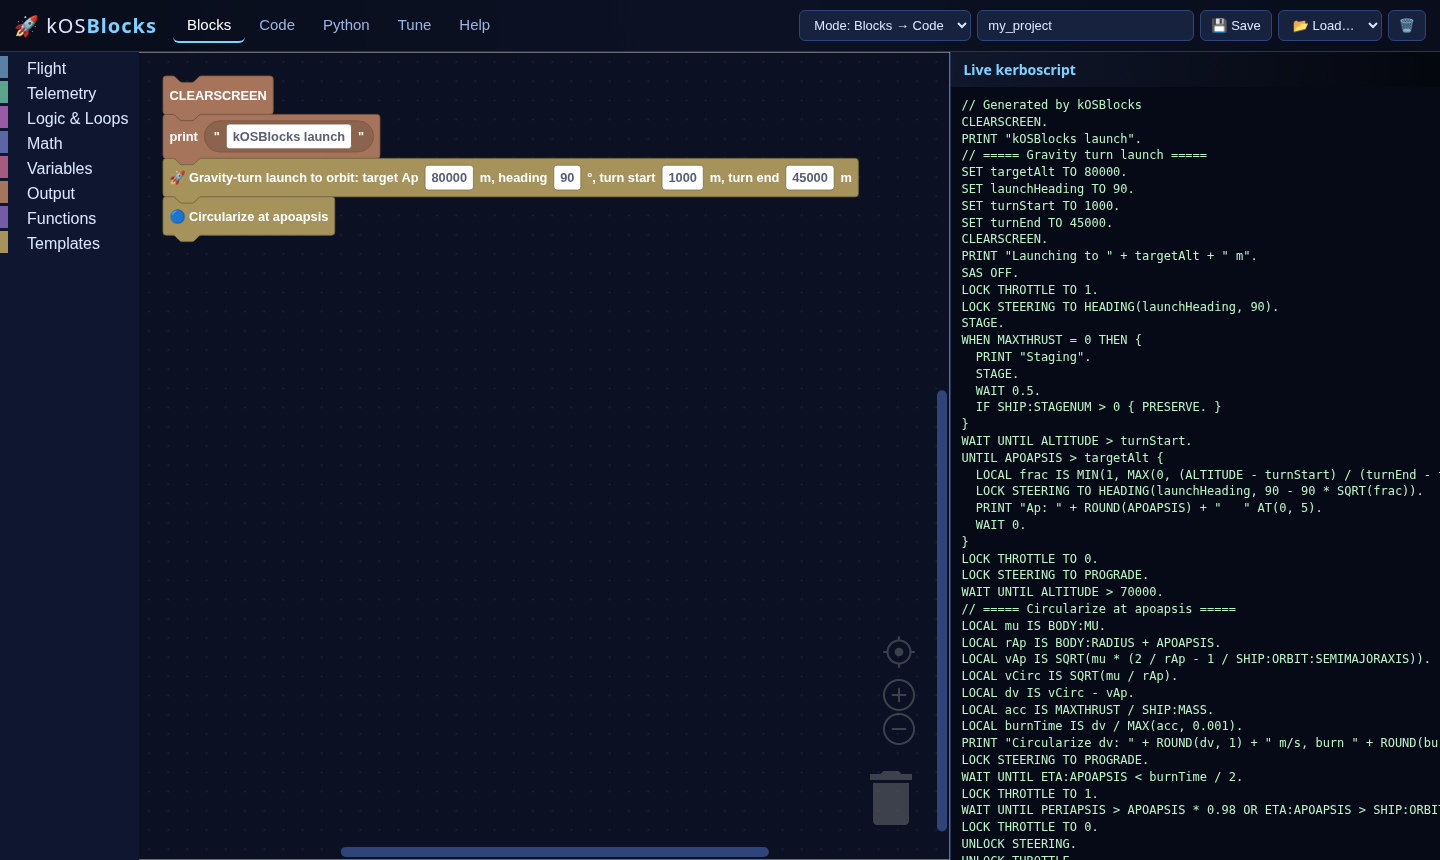
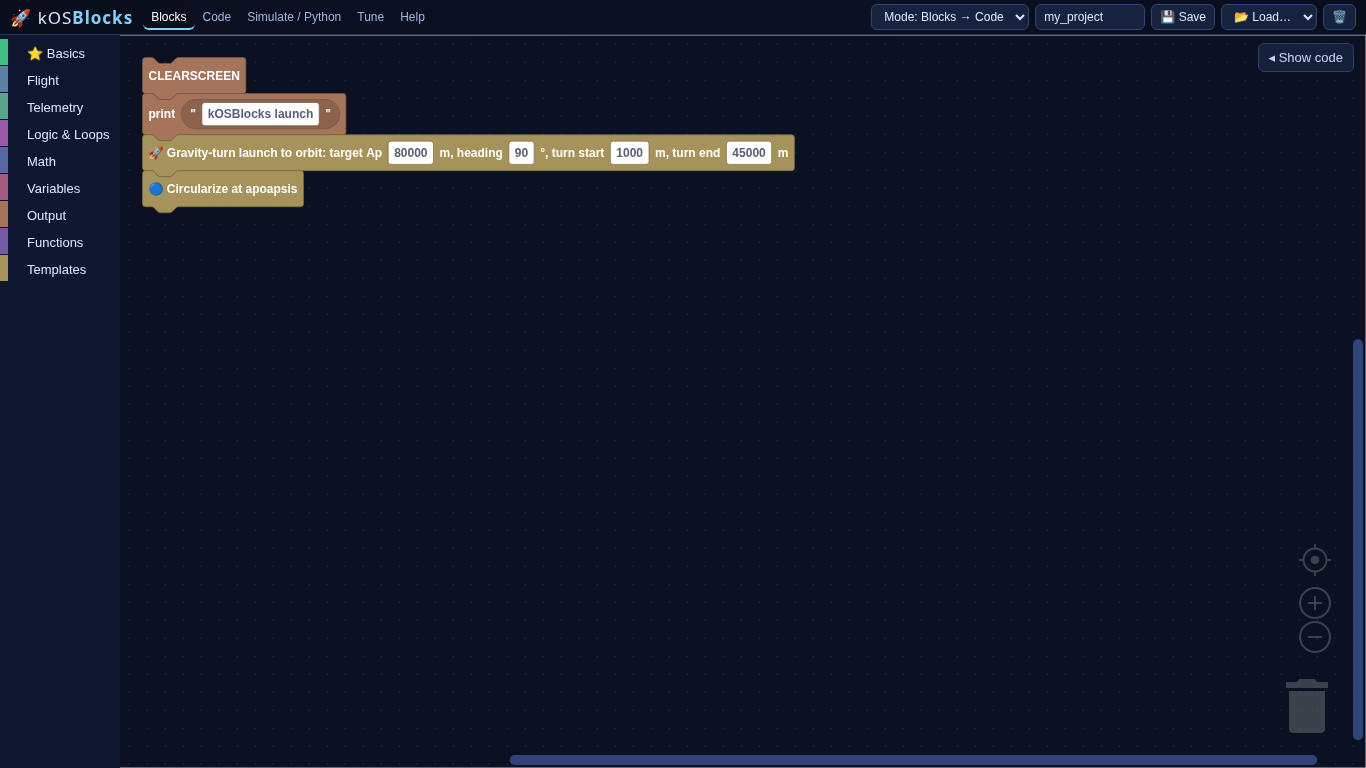
Fix/harden block dragging, declutter Blocks tab, add Basics category (wait, stage, stage+wait, auto-stage)

Changed region(s): [[0.0, 0.0, 1.0, 1.0], [0.8917, 0.8438, 0.9224, 0.875]]

diff --git a/app.js b/app.js
@@ -7,12 +7,25 @@ CodeMirror.defineSimpleMode('kerboscript',{start:[
  {regex:/\b(?:altitude|apoapsis|periapsis|verticalspeed|groundspeed|maxthrust|latitude|longitude|throttle|steering|sas|rcs|gear|brakes|lights|legs|abort|ag\d+)\b/i,token:'atom'},
  {regex:/-?\d+(?:\.\d+)?(?:e[+-]?\d+)?/i,token:'number'},{regex:/[{}()]/,token:'bracket'},{regex:/[-+*\/^<>=:.,]/,token:'operator'}],meta:{lineComment:'//'}});
 
-const ws=Blockly.inject('blocklyDiv',{toolbox:TOOLBOX,theme:Blockly.Theme.defineTheme('kosdark',{base:Blockly.Themes.Classic,componentStyles:{workspaceBackgroundColour:'#0b1122',toolboxBackgroundColour:'#0f1730',toolboxForegroundColour:'#dce6ff',flyoutBackgroundColour:'#16203a',flyoutOpacity:0.95,scrollbarColour:'#2f4478',insertionMarkerColour:'#fff'}}),renderer:'zelos',grid:{spacing:24,length:2,colour:'#1b2747',snap:true},zoom:{controls:true,wheel:true,startScale:0.8},trashcan:true});
+const ws=Blockly.inject('blocklyDiv',{toolbox:TOOLBOX,theme:Blockly.Theme.defineTheme('kosdark',{base:Blockly.Themes.Classic,componentStyles:{workspaceBackgroundColour:'#0b1122',toolboxBackgroundColour:'#0f1730',toolboxForegroundColour:'#dce6ff',flyoutBackgroundColour:'#16203a',flyoutOpacity:0.95,scrollbarColour:'#2f4478',insertionMarkerColour:'#fff'}}),renderer:'zelos',grid:{spacing:24,length:2,colour:'#1b2747',snap:true},zoom:{controls:true,wheel:false,pinch:true,startScale:0.75,maxScale:2,minScale:0.3,scaleSpeed:1.15},move:{scrollbars:true,drag:true,wheel:true},trashcan:true,sounds:false});
 const cm=CodeMirror($('#codeWrap'),{mode:'kerboscript',theme:'material-darker',lineNumbers:true,readOnly:true,indentUnit:2});
 let linked=true, pureCode=false, suppress=false;
 
 function regen(){ if(!linked||pureCode) return; const code=KOS.workspaceToCode(ws); $('#livePreview').textContent=code; suppress=true; cm.setValue(code); suppress=false; lint(); refreshTune(); }
-ws.addChangeListener(e=>{ if(e.isUiEvent) return; regen(); });
+// Regenerate code at most once per frame and never in the middle of a drag (heavy DOM work during a
+// drag can make Blockly drags stutter/fail on slower machines).
+let regenTimer=null;
+function scheduleRegen(){ clearTimeout(regenTimer); regenTimer=setTimeout(()=>{ if(ws.isDragging&&ws.isDragging()){scheduleRegen();return;} regen(); },120); }
+ws.addChangeListener(e=>{ if(e.isUiEvent||e.type===Blockly.Events.VIEWPORT_CHANGE) return; scheduleRegen(); });
+// keep Blockly's cached size in sync with its container (tab switches, header wrap, window resize, panel toggle)
+const resizeBlockly=()=>{ if($('#tab-blocks').classList.contains('active')) Blockly.svgResize(ws); };
+window.addEventListener('resize',resizeBlockly); if(window.ResizeObserver) new ResizeObserver(resizeBlockly).observe($('#blocklyDiv'));
+// live preview: hidden by default, toggle remembers choice
+function setPreview(on){ $('#tab-blocks').classList.toggle('preview-on',on); $('#togglePreview').textContent=on?'Hide code ▸':'◂ Show code'; localStorage.setItem('kosblocks.preview',on?'1':'0'); setTimeout(resizeBlockly,0); }
+$('#togglePreview').onclick=()=>setPreview(!$('#tab-blocks').classList.contains('preview-on'));
+setPreview(localStorage.getItem('kosblocks.preview')==='1');
+$('#relink').onclick=()=>{ if(pureCode) setMode('blocks'); else if(confirm('Re-link: code will be regenerated from blocks (text edits lost). Continue?')) setLinked(true); };
+function updateBanner(){ $('#unlinkedBanner').style.display=(!linked||pureCode)?'':'none'; }
 function getCode(){return cm.getValue();}
 function setCode(t){ // writing text implies unlinking from blocks
   if(linked&&!pureCode){ setLinked(false); }
@@ -20,14 +33,14 @@ function setCode(t){ // writing text implies unlinking from blocks
 cm.on('change',()=>{ if(suppress) return; lint(); refreshTune(); $('#livePreview').textContent=cm.getValue(); });
 
 function setLinked(v){ linked=v; $('#editSelf').checked=!v; cm.setOption('readOnly',v&&!pureCode);
-  $('#linkState').textContent=pureCode?'pure code mode':(v?'linked to blocks':'unlinked – blocks ignored'); $('#linkState').classList.toggle('warn',!v||pureCode); if(v) regen(); }
+  $('#linkState').textContent=pureCode?'pure code mode':(v?'linked to blocks':'unlinked – blocks ignored'); $('#linkState').classList.toggle('warn',!v||pureCode); if(v) regen(); updateBanner(); }
 $('#editSelf').onchange=e=>{ if(!e.target.checked){ if(!confirm('Switching back to blocks will REGENERATE the code from blocks and discard your text edits. Continue?')){e.target.checked=true;return;} } setLinked(!e.target.checked); };
 function setMode(m){ pureCode=m==='code'; $('#mode').value=m; document.querySelector('[data-tab=blocks]').style.display=pureCode?'none':'';
   $('#editSelf').disabled=pureCode; if(pureCode){ linked=false; cm.setOption('readOnly',false); showTab('code'); } else { if(getCode().trim()&&!confirm('Return to Blocks mode? Code will be regenerated from blocks (text edits lost).')){ $('#mode').value='code'; pureCode=true; return;} linked=true; } setLinked(linked); }
 $('#mode').onchange=e=>setMode(e.target.value);
 
 function showTab(t){ document.querySelectorAll('nav button').forEach(b=>b.classList.toggle('active',b.dataset.tab===t)); document.querySelectorAll('.tab').forEach(s=>s.classList.toggle('active',s.id==='tab-'+t));
-  if(t==='blocks') Blockly.svgResize(ws); if(t==='code') cm.refresh(); if(t==='python') pyEd.refresh(); if(t==='tune') refreshTune(); }
+  if(t==='blocks') setTimeout(()=>Blockly.svgResize(ws),0); if(t==='code') cm.refresh(); if(t==='python') pyEd.refresh(); if(t==='tune') refreshTune(); }
 document.querySelectorAll('nav button').forEach(b=>b.onclick=()=>showTab(b.dataset.tab));
 
 // ---- Linter ----
@@ -223,7 +236,7 @@ $('#resetPy').onclick=()=>pyEd.setValue(PY_DEFAULT);
 let pyodide=null;
 async function ensurePy(){ if(pyodide) return pyodide; $('#pyStatus').textContent='Loading Pyodide…';
   await new Promise((res,rej)=>{const s=document.createElement('script');s.src='https://cdn.jsdelivr.net/pyodide/v0.26.4/full/pyodide.js';s.onload=res;s.onerror=()=>rej(new Error('Could not load Pyodide (offline?)'));document.head.appendChild(s);});
-  const py=await loadPyodide(); const src=await (await fetch('sim.py')).text(); py.FS.writeFile('/home/pyodide/kossim.py',src);
+  const py=await loadPyodide(); const src=await (await fetch('sim.py?v=3')).text(); py.FS.writeFile('/home/pyodide/kossim.py',src);
   py.registerJsModule('_kosbridge',{getCode,setCode,setVar:(n,v)=>{const r=setVar(n,v);refreshTune();regenNow();return r;},getVessel:()=>{readOpts();return JSON.stringify(vessel);},showSim});
   py.runPython('import sys\nsys.path.insert(0,"/home/pyodide")\nimport _kosbridge as _js\n'+PY_HELPERS); pyodide=py; $('#pyStatus').textContent='Pyodide ready'; return py; }
 function regenNow(){ if(linked&&!pureCode){ const code=KOS.workspaceToCode(ws); suppress=true; cm.setValue(code); suppress=false; $('#livePreview').textContent=code; lint(); } }

diff --git a/blocks.js b/blocks.js
@@ -16,6 +16,8 @@ def('kos_toggle','%1 %2',[{type:'field_dropdown',name:'W',options:['SAS','RCS','
 def('kos_wait','wait %1 seconds',[V('S','Number')],ST(C.flight));
 def('kos_wait_until','wait until %1',[V('C','Boolean')],ST(C.flight));
 def('kos_mainthrottle_zero','set pilot main throttle to 0',[],ST(C.flight));
+def('kos_stage_wait','STAGE then wait %1 s',[V('S','Number')],ST(C.flight));
+def('kos_autostage','auto-stage when %1',[{type:'field_dropdown',name:'W',options:[['thrust drops to 0','THRUST'],['stage liquid fuel empty','FUEL']]}],ST(C.flight));
 // Telemetry
 const TELE=[['ALTITUDE','ALTITUDE'],['APOAPSIS','APOAPSIS'],['PERIAPSIS','PERIAPSIS'],['surface speed','SHIP:VELOCITY:SURFACE:MAG'],['orbital speed','SHIP:VELOCITY:ORBIT:MAG'],['VERTICALSPEED','VERTICALSPEED'],['GROUNDSPEED','GROUNDSPEED'],['SHIP:MASS','SHIP:MASS'],['MAXTHRUST','MAXTHRUST'],['LATITUDE','LATITUDE'],['LONGITUDE','LONGITUDE'],['ETA:APOAPSIS','ETA:APOAPSIS'],['ETA:PERIAPSIS','ETA:PERIAPSIS'],['STAGE:LIQUIDFUEL','STAGE:LIQUIDFUEL'],['STAGE:OXIDIZER','STAGE:OXIDIZER'],['SOLIDFUEL','STAGE:SOLIDFUEL'],['radar altitude','ALT:RADAR'],['THROTTLE','THROTTLE'],['TIME:SECONDS','TIME:SECONDS'],['BODY:MU','BODY:MU'],['BODY:RADIUS','BODY:RADIUS']];
 def('kos_tele','%1',[{type:'field_dropdown',name:'T',options:TELE}],EX(C.tele,'Number'));
@@ -87,7 +89,9 @@ const STMT={
  kos_steer_heading:b=>`LOCK STEERING TO HEADING(${val(b,'DIR','90')}, ${val(b,'PITCH','90')}).\n`,
  kos_steer_dir:b=>`LOCK STEERING TO ${f(b,'D')==='X'?'UP':f(b,'D')}.\n`,
  kos_lock_throttle:b=>`LOCK THROTTLE TO ${val(b,'T','1')}.\n`, kos_unlock:b=>`UNLOCK ${f(b,'W')}.\n`,
- kos_stage:()=>'STAGE.\n', kos_toggle:b=>`${f(b,'W')} ${f(b,'S')}.\n`,
+ kos_stage:()=>'STAGE.\n',
+ kos_stage_wait:b=>`STAGE.\nWAIT ${val(b,'S','1')}.\n`,
+ kos_autostage:b=>`WHEN ${f(b,'W')==='FUEL'?'STAGE:LIQUIDFUEL < 0.1':'MAXTHRUST = 0'} AND SHIP:STATUS <> "PRELAUNCH" THEN {\n${IND}PRINT "Auto-staging".\n${IND}STAGE.\n${IND}WAIT 0.5.\n${IND}IF SHIP:STAGENUM > 0 { PRESERVE. }\n}\n`, kos_toggle:b=>`${f(b,'W')} ${f(b,'S')}.\n`,
  kos_wait:b=>`WAIT ${val(b,'S','1')}.\n`, kos_wait_until:b=>`WAIT UNTIL ${val(b,'C','TRUE')}.\n`,
  kos_mainthrottle_zero:()=>'SET SHIP:CONTROL:PILOTMAINTHROTTLE TO 0.\n',
  kos_if:b=>`IF ${val(b,'C','TRUE')} {\n${body(b,'DO')}}\n`,
@@ -205,7 +209,8 @@ KOS.workspaceToCode=function(ws){
 };
 
 const TOOLBOX={kind:'categoryToolbox',contents:[
- {kind:'category',name:'Flight',colour:C.flight,contents:['kos_steer_heading','kos_steer_dir','kos_lock_throttle','kos_unlock','kos_stage','kos_toggle','kos_wait','kos_wait_until','kos_mainthrottle_zero'].map(t=>({kind:'block',type:t,inputs:t==='kos_steer_heading'?{DIR:{shadow:{type:'kos_num',fields:{N:90}}},PITCH:{shadow:{type:'kos_num',fields:{N:90}}}}:t==='kos_lock_throttle'?{T:{shadow:{type:'kos_num',fields:{N:1}}}}:t==='kos_wait'?{S:{shadow:{type:'kos_num',fields:{N:1}}}}:undefined}))},
+{kind:'category',name:'⭐ Basics',colour:'#3fbf80',contents:[{kind:'label',text:'Waiting'},{kind:'block',type:'kos_wait',inputs:{S:{shadow:{type:'kos_num',fields:{N:1}}}}},{kind:'block',type:'kos_wait_until',inputs:{C:{block:{type:'kos_compare',fields:{OP:'>'},inputs:{A:{block:{type:'kos_tele',fields:{T:'ALTITUDE'}}},B:{shadow:{type:'kos_num',fields:{N:10000}}}}}}}},{kind:'label',text:'Staging'},{kind:'block',type:'kos_stage'},{kind:'block',type:'kos_stage_wait',inputs:{S:{shadow:{type:'kos_num',fields:{N:1}}}}},{kind:'block',type:'kos_autostage'},{kind:'block',type:'kos_autostage',fields:{W:'FUEL'}},{kind:'label',text:'Control'},{kind:'block',type:'kos_lock_throttle',inputs:{T:{shadow:{type:'kos_num',fields:{N:1}}}}},{kind:'block',type:'kos_steer_heading',inputs:{DIR:{shadow:{type:'kos_num',fields:{N:90}}},PITCH:{shadow:{type:'kos_num',fields:{N:90}}}}},{kind:'block',type:'kos_print',inputs:{X:{shadow:{type:'kos_text'}}}}]},
+ {kind:'category',name:'Flight',colour:C.flight,contents:['kos_steer_heading','kos_steer_dir','kos_lock_throttle','kos_unlock','kos_stage','kos_stage_wait','kos_autostage','kos_toggle','kos_wait','kos_wait_until','kos_mainthrottle_zero'].map(t=>({kind:'block',type:t,inputs:t==='kos_steer_heading'?{DIR:{shadow:{type:'kos_num',fields:{N:90}}},PITCH:{shadow:{type:'kos_num',fields:{N:90}}}}:t==='kos_lock_throttle'?{T:{shadow:{type:'kos_num',fields:{N:1}}}}:(t==='kos_wait'||t==='kos_stage_wait')?{S:{shadow:{type:'kos_num',fields:{N:1}}}}:undefined}))},
  {kind:'category',name:'Telemetry',colour:C.tele,contents:[{kind:'block',type:'kos_tele'},{kind:'block',type:'kos_tele',fields:{T:'APOAPSIS'}},{kind:'block',type:'kos_tele',fields:{T:'SHIP:VELOCITY:SURFACE:MAG'}},{kind:'block',type:'kos_tele',fields:{T:'STAGE:LIQUIDFUEL'}},{kind:'block',type:'kos_twr'}]},
  {kind:'category',name:'Logic & Loops',colour:C.logic,contents:['kos_if','kos_ifelse','kos_until','kos_from','kos_when','kos_break','kos_compare','kos_andor','kos_not','kos_bool'].map(t=>({kind:'block',type:t}))},
  {kind:'category',name:'Math',colour:C.math,contents:['kos_num','kos_arith','kos_func1','kos_minmax','kos_const','kos_raw_expr'].map(t=>({kind:'block',type:t}))},

diff --git a/index.html b/index.html
@@ -4,7 +4,7 @@
 <meta name="viewport" content="width=device-width,initial-scale=1">
 <link rel="stylesheet" href="https://unpkg.com/codemirror@5.65.16/lib/codemirror.css">
 <link rel="stylesheet" href="https://unpkg.com/codemirror@5.65.16/theme/material-darker.css">
-<link rel="stylesheet" href="style.css">
+<link rel="stylesheet" href="style.css?v=3">
 <script src="https://unpkg.com/blockly@10.4.3/blockly_compressed.js"></script>
 <script src="https://unpkg.com/blockly@10.4.3/blocks_compressed.js"></script>
 <script src="https://unpkg.com/blockly@10.4.3/msg/en.js"></script>
@@ -19,7 +19,7 @@
 <input id="projName" value="my_project" title="Project name"><button id="saveBtn">💾 Save</button><select id="loadSel"><option value="">📂 Load…</option></select><button id="delBtn" title="Delete selected project">🗑</button>
 </div></header>
 <main>
-<section id="tab-blocks" class="tab active"><div id="blocklyDiv"></div><div class="side"><h3>Live kerboscript</h3><pre id="livePreview"></pre></div></section>
+<section id="tab-blocks" class="tab active"><div id="blocklyDiv"></div><button id="togglePreview" class="floatbtn">◂ Show code</button><div id="unlinkedBanner" class="banner" style="display:none">⚠ Code is unlinked from blocks (you are editing text). Block changes won't update the code. <button id="relink">Re-link blocks</button></div><div class="side"><h3>Live kerboscript</h3><pre id="livePreview"></pre></div></section>
 <section id="tab-code" class="tab"><div class="bar">
 <label><input type="checkbox" id="editSelf"> ✏ Edit code myself (unlink from blocks)</label>
 <span id="linkState" class="pill">linked to blocks</span>
@@ -62,5 +62,5 @@
 <li>Projects are saved in your browser's localStorage.</li></ul>
 <p>kOS docs: <a href="https://ksp-kos.github.io/KOS/" target="_blank">ksp-kos.github.io/KOS</a></p></section>
 </main>
-<script src="blocks.js"></script><script src="app.js"></script>
+<script src="blocks.js?v=3"></script><script src="app.js?v=3"></script>
 </body></html>

diff --git a/style.css b/style.css
@@ -35,3 +35,14 @@ main{flex:1;position:relative;min-height:0}.tab{display:none;position:absolute;i
 .term.log{height:150px;color:#b8f5c8}#simWarn{font-size:12px;color:#ffc27a;margin-top:4px}
 .charts{display:grid;grid-template-columns:repeat(4,1fr);gap:10px;padding:0 10px}.charts canvas{width:100%;background:#060a16;border:1px solid #24345e;border-radius:6px}
 .pyrow{height:420px;margin:0 10px 10px;border:1px solid #24345e}
+/* declutter */
+header{padding:4px 10px;gap:10px}.logo{font-size:17px}nav button{padding:6px 10px;font-size:14px}
+header button,header select,header input{padding:4px 8px;font-size:12px}#projName{width:110px}
+#tab-blocks{position:absolute}#blocklyDiv{position:absolute;inset:0;right:0}
+#tab-blocks .side{display:none;position:absolute;top:0;right:0;bottom:0;width:min(420px,38%);background:#060a16;z-index:5}
+#tab-blocks.preview-on .side{display:flex}#tab-blocks.preview-on #blocklyDiv{right:min(420px,38%)}
+.floatbtn{position:absolute;top:8px;right:12px;z-index:6;opacity:.9}#tab-blocks.preview-on .floatbtn{right:calc(min(420px,38%) + 12px)}
+.banner{position:absolute;left:50%;transform:translateX(-50%);bottom:10px;z-index:6;background:#4a2a10;color:#ffd9a8;padding:6px 10px;border-radius:6px;font-size:13px}
+.blocklyTreeRow{height:26px!important;line-height:26px!important;margin-bottom:1px!important}.blocklyTreeLabel{font-size:13px!important}
+.blocklyFlyoutLabelText{fill:#9fb3e0!important;font-size:12px}
+@media (max-width:1100px){.logo b{display:none}#projName{width:80px}}
